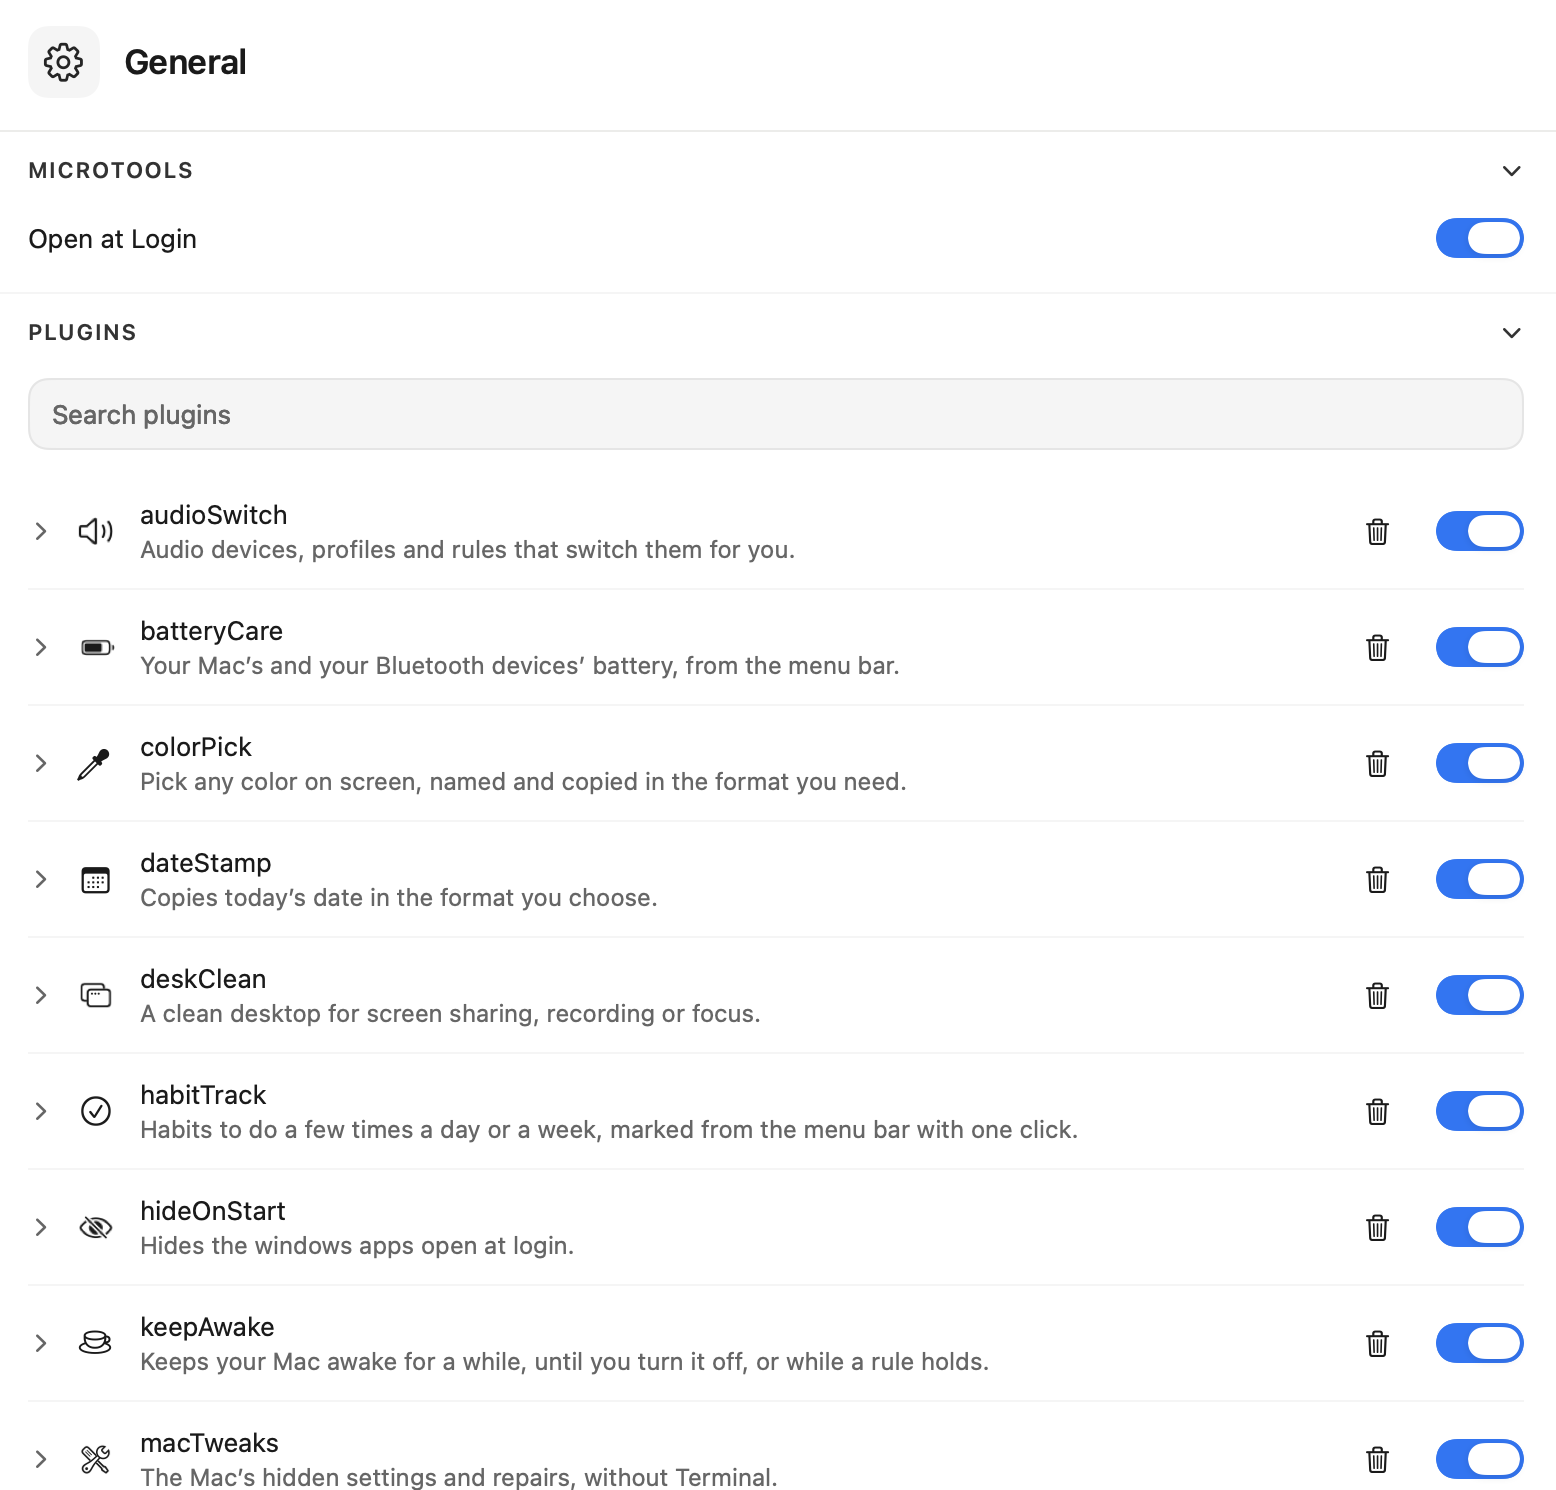
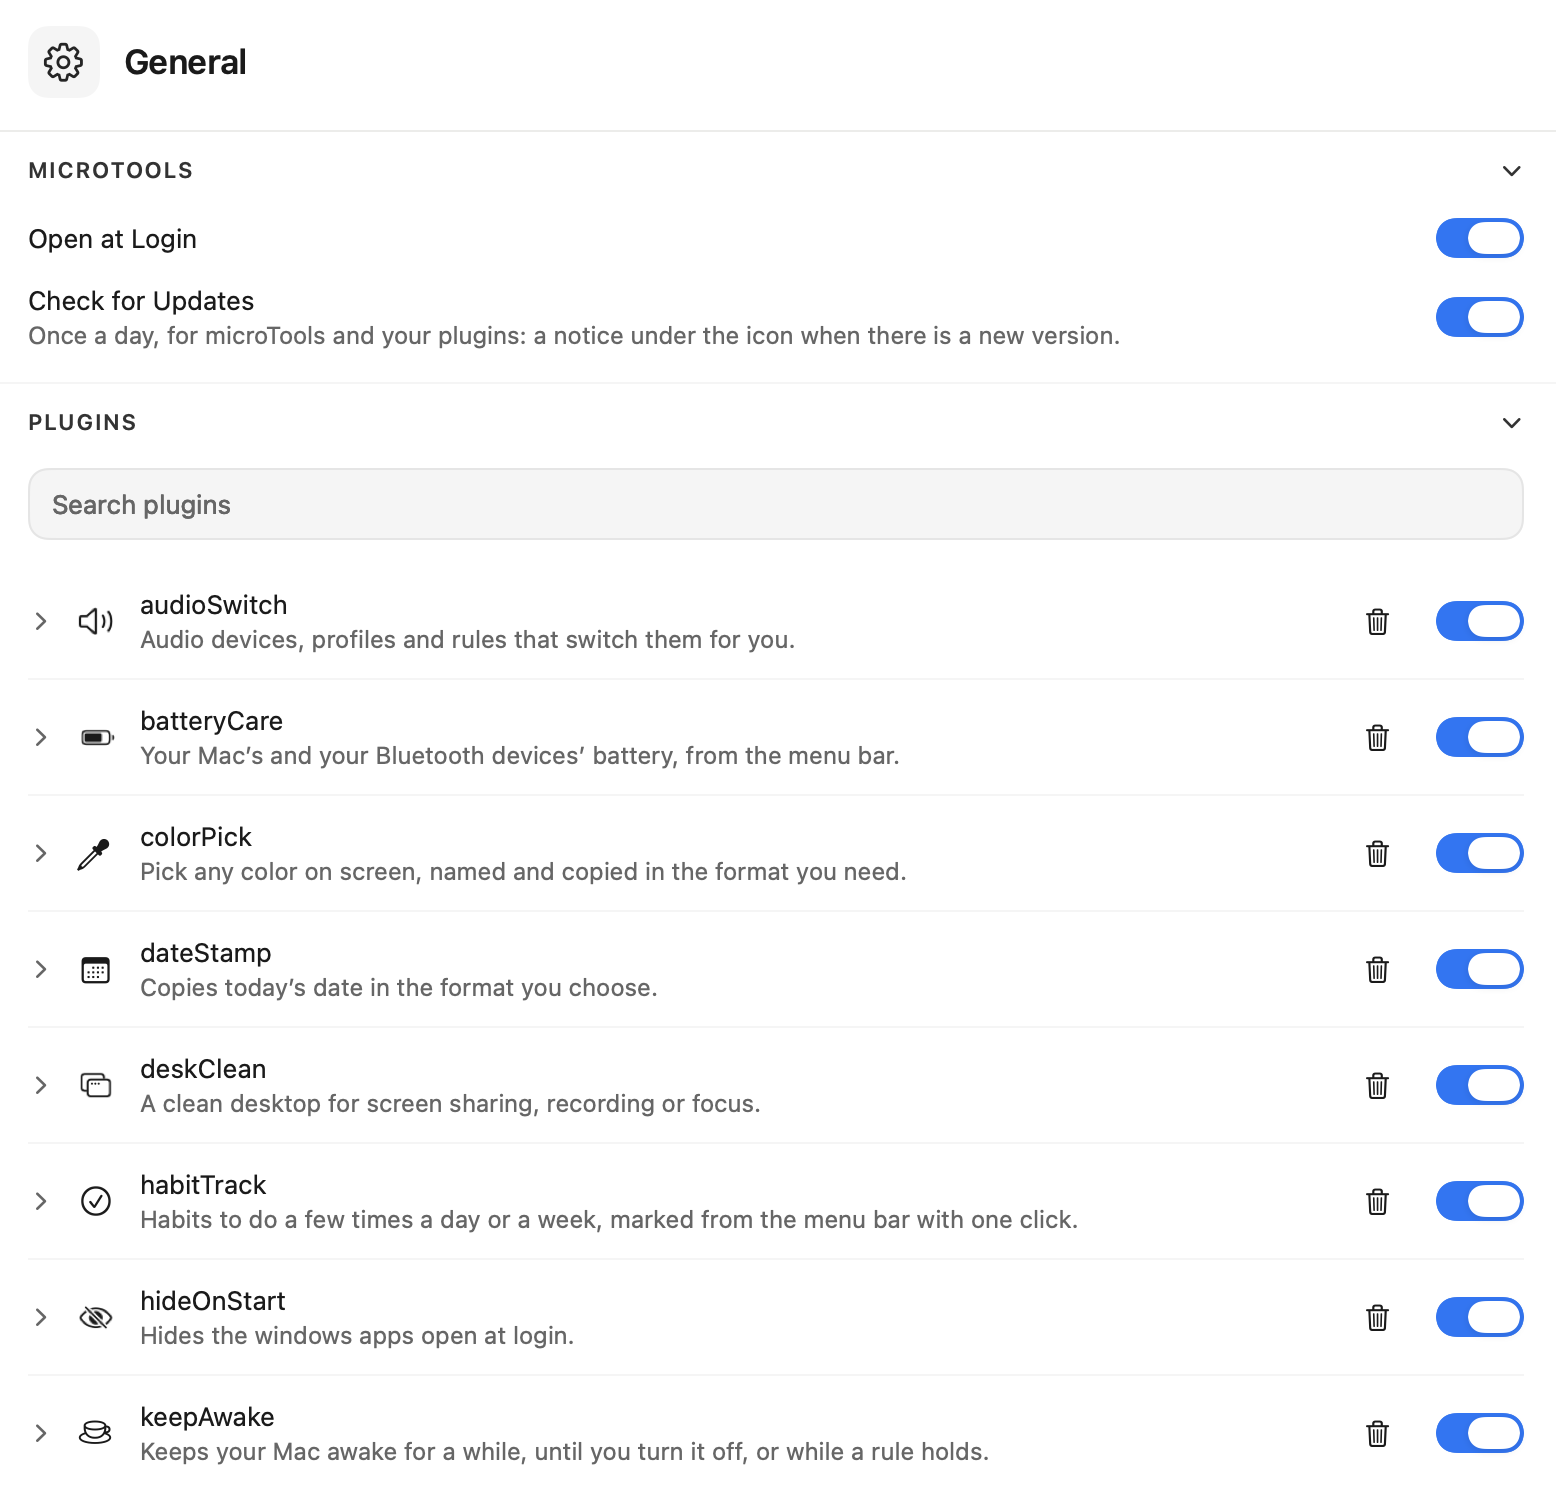
Landing and README: shotGrab replaces ocrGrab

diff --git a/index.html b/index.html
@@ -4,7 +4,7 @@
 <meta charset="utf-8">
 <meta name="viewport" content="width=device-width, initial-scale=1">
 <title>microTools — Small tools for your Mac</title>
-<meta name="description" content="One small menu bar app that hosts little Mac utilities as plugins: hideOnStart, rightClick, audioSwitch, mediaGrab, midiLink, ocrGrab, colorPick, keepAwake, deskClean, batteryCare, macTweaks, habitTrack — and the ones you write in JavaScript.">
+<meta name="description" content="One small menu bar app that hosts little Mac utilities as plugins: hideOnStart, rightClick, audioSwitch, mediaGrab, midiLink, shotGrab, colorPick, keepAwake, deskClean, batteryCare, macTweaks, habitTrack — and the ones you write in JavaScript.">
 <meta property="og:title" content="microTools — Small tools. One app.">
 <meta property="og:description" content="Little Mac utilities as plugins, in one menu bar app. Turn on only the ones you need.">
 <meta property="og:image" content="https://microbians.github.io/microtools/site/og.png">
@@ -179,7 +179,7 @@
     <symbol id="i-audioSwitch" viewBox="0 0 24 24" fill="none" stroke="currentColor" stroke-width="1.5" stroke-linecap="round" stroke-linejoin="round"><path d="M11 4.702a.705.705 0 0 0-1.203-.498L6.413 7.587A1.4 1.4 0 0 1 5.416 8H3a1 1 0 0 0-1 1v6a1 1 0 0 0 1 1h2.416a1.4 1.4 0 0 1 .997.413l3.383 3.384A.705.705 0 0 0 11 19.298z"/><path d="M16 9a5 5 0 0 1 0 6"/><path d="M19.364 18.364a9 9 0 0 0 0-12.728"/></symbol>
     <symbol id="i-mediaGrab" viewBox="0 0 24 24" fill="none" stroke="currentColor" stroke-width="1.5" stroke-linecap="round" stroke-linejoin="round"><circle cx="12" cy="12" r="10"/><path d="M12 8v8"/><path d="m8 12 4 4 4-4"/></symbol>
     <symbol id="i-midiLink" viewBox="0 0 24 24" fill="none" stroke="currentColor" stroke-width="1.5" stroke-linecap="round" stroke-linejoin="round"><rect x="2" y="5" width="20" height="14" rx="2"/><path d="M7 5v8M12 5v8M17 5v8M7 13v6M12 13v6M17 13v6"/></symbol>
-    <symbol id="i-ocrGrab" viewBox="0 0 24 24" fill="none" stroke="currentColor" stroke-width="1.5" stroke-linecap="round" stroke-linejoin="round"><path d="M3 7V5a2 2 0 0 1 2-2h2"/><path d="M17 3h2a2 2 0 0 1 2 2v2"/><path d="M21 17v2a2 2 0 0 1-2 2h-2"/><path d="M7 21H5a2 2 0 0 1-2-2v-2"/><path d="M7 8h8"/><path d="M7 12h10"/><path d="M7 16h6"/></symbol>
+    <symbol id="i-shotGrab" viewBox="0 0 24 24" fill="none" stroke="currentColor" stroke-width="1.5" stroke-linecap="round" stroke-linejoin="round"><path d="M3 7V5a2 2 0 0 1 2-2h2"/><path d="M17 3h2a2 2 0 0 1 2 2v2"/><path d="M21 17v2a2 2 0 0 1-2 2h-2"/><path d="M7 21H5a2 2 0 0 1-2-2v-2"/><circle cx="12" cy="12" r="1"/><path d="M18.944 12.33a1 1 0 0 0 0-.66 7.5 7.5 0 0 0-13.888 0 1 1 0 0 0 0 .66 7.5 7.5 0 0 0 13.888 0"/></symbol>
     <symbol id="i-colorPick" viewBox="0 0 24 24" fill="none" stroke="currentColor" stroke-width="1.5" stroke-linecap="round" stroke-linejoin="round"><path d="m12 9-8.414 8.414A2 2 0 0 0 3 18.828v1.344a2 2 0 0 1-.586 1.414A2 2 0 0 1 3.828 21h1.344a2 2 0 0 0 1.414-.586L15 12"/><path d="m18 9 .4.4a1 1 0 1 1-3 3l-3.8-3.8a1 1 0 1 1 3-3l.4.4 3.4-3.4a1 1 0 1 1 3 3z"/><path d="m2 22 .414-.414"/></symbol>
     <symbol id="i-keepAwake" viewBox="0 0 24 24" fill="none" stroke="currentColor" stroke-width="1.5" stroke-linecap="round" stroke-linejoin="round"><path d="M10 2v2"/><path d="M14 2v2"/><path d="M16 8a1 1 0 0 1 1 1v8a4 4 0 0 1-4 4H7a4 4 0 0 1-4-4V9a1 1 0 0 1 1-1h14a4 4 0 1 1 0 8h-1"/><path d="M6 2v2"/></symbol>
     <symbol id="i-deskClean" viewBox="0 0 24 24" fill="none" stroke="currentColor" stroke-width="1.5" stroke-linecap="round" stroke-linejoin="round"><rect x="2" y="3" width="20" height="14" rx="2"/><path d="M8 21h8"/><path d="M12 17v4"/></symbol>
@@ -194,7 +194,7 @@
   <div class="inner split">
     <div class="copy">
       <h1>Small tools.<br>One app.</h1>
-      <p class="lead soft">hideOnStart, rightClick, audioSwitch, mediaGrab, midiLink, ocrGrab, colorPick, keepAwake, deskClean, batteryCare, macTweaks and habitTrack live together in your menu bar. Turn on only the ones you need; new tools arrive as new plugins, not as one more app.</p>
+      <p class="lead soft">hideOnStart, rightClick, audioSwitch, mediaGrab, midiLink, shotGrab, colorPick, keepAwake, deskClean, batteryCare, macTweaks and habitTrack live together in your menu bar. Turn on only the ones you need; new tools arrive as new plugins, not as one more app.</p>
       <div class="buttons">
         <a class="button primary" href="https://microbians.gumroad.com/l/microtools">Get microTools <small>pay what you want</small></a>
         <a class="button secondary" href="#sdk">Write a plugin</a>
@@ -219,7 +219,7 @@
       <a class="plugin-card" href="#audioSwitch"><svg><use href="#i-audioSwitch"/></svg><h3>audioSwitch</h3><p>Audio devices, profiles and rules that switch them for you.</p></a>
       <a class="plugin-card" href="#mediaGrab"><svg><use href="#i-mediaGrab"/></svg><h3>mediaGrab</h3><p>Video, MP3 or images from the page in your browser.</p></a>
       <a class="plugin-card" href="#midiLink"><svg><use href="#i-midiLink"/></svg><h3>midiLink</h3><p>Bluetooth MIDI devices from the menu bar, and MIDI from one to another.</p></a>
-      <a class="plugin-card" href="#ocrGrab"><svg><use href="#i-ocrGrab"/></svg><h3>ocrGrab</h3><p>Copy the text of any part of the screen, and read QR codes.</p></a>
+      <a class="plugin-card" href="#shotGrab"><svg><use href="#i-shotGrab"/></svg><h3>shotGrab</h3><p>Text, QR codes and what an image shows, from any part of the screen — and screenshots named by what they show.</p></a>
       <a class="plugin-card" href="#colorPick"><svg><use href="#i-colorPick"/></svg><h3>colorPick</h3><p>Pick any color on screen, named and copied in the format you need.</p></a>
       <a class="plugin-card" href="#keepAwake"><svg><use href="#i-keepAwake"/></svg><h3>keepAwake</h3><p>Keeps your Mac awake for a while, until you turn it off, or while a rule holds.</p></a>
       <a class="plugin-card" href="#deskClean"><svg><use href="#i-deskClean"/></svg><h3>deskClean</h3><p>A clean desktop for screen sharing, recording or focus.</p></a>
@@ -284,7 +284,7 @@
       <div class="plugin-name"><svg><use href="#i-audioSwitch"/></svg>audioSwitch</div>
       <h2>Sound where<br>you want it.</h2>
       <dl class="features">
-        <div><dt class="soft">Devices</dt><dd>Rename them, give them an icon, set volumes, hide the ones you never use and give each a shortcut.</dd></div>
+        <div><dt class="soft">Devices</dt><dd>Rename them, give them an icon, set volumes and mute from the menu, hide the ones you never use and give each a shortcut.</dd></div>
         <div><dt class="soft">Profiles</dt><dd>Output, input, levels and microphone mute in one click.</dd></div>
         <div><dt class="soft">Rules</dt><dd>Switch by themselves when an app, a web page, the camera or a device turns up — and switch back when it ends.</dd></div>
       </dl>
@@ -327,19 +327,20 @@
   </div>
 </section>
 
-<!-- ocrGrab -->
-<section class="ground paper" id="ocrGrab">
+<!-- shotGrab -->
+<section class="ground paper" id="shotGrab">
   <div class="inner split flip">
     <div class="copy">
-      <div class="plugin-name"><svg><use href="#i-ocrGrab"/></svg>ocrGrab</div>
-      <h2>Copy the text<br>you can’t select.</h2>
+      <div class="plugin-name"><svg><use href="#i-shotGrab"/></svg>shotGrab</div>
+      <h2>Read anything<br>on your screen.</h2>
       <dl class="features">
-        <div><dt class="soft">Any part of the screen</dt><dd>Drag over images, videos, PDFs or apps that won’t let you select: the text is copied, read on your Mac.</dd></div>
-        <div><dt class="soft">QR codes and barcodes</dt><dd>Copy what they hold; links in them can open by themselves.</dd></div>
-        <div><dt class="soft">Your way</dt><dd>Keep the line breaks or join them into paragraphs, choose the languages, copy recent captures again from the menu.</dd></div>
+        <div><dt class="soft">Text and QR codes</dt><dd>Drag over images, videos, PDFs or apps that won’t let you select: the text is copied, read on your Mac. Codes copy what they hold.</dd></div>
+        <div><dt class="soft">Identify Image</dt><dd>Apple Intelligence tells you in a few words what the area shows, and copies it.</dd></div>
+        <div><dt class="soft">Search Image on the Web</dt><dd>The area you select, searched with Google Lens, Bing or Yandex.</dd></div>
+        <div><dt class="soft">Screenshots with names</dt><dd>Each new one is named by what it shows instead of “Screenshot” and the date. Keep the date if you like; undo from the menu.</dd></div>
       </dl>
     </div>
-    <div class="window" data-shot="ocrGrab-light" data-active="ocrGrab"></div>
+    <div class="window" data-shot="shotGrab-light" data-active="shotGrab"></div>
   </div>
 </section>
 
@@ -519,7 +520,7 @@ docs/for-ai.md.</pre>
 
 <script>
   // The Settings window around each capture: the same sidebar the app draws.
-  const plugins = ['hideOnStart', 'rightClick', 'audioSwitch', 'mediaGrab', 'midiLink', 'ocrGrab', 'colorPick',
+  const plugins = ['hideOnStart', 'rightClick', 'audioSwitch', 'mediaGrab', 'midiLink', 'shotGrab', 'colorPick',
                    'keepAwake', 'deskClean', 'batteryCare', 'macTweaks', 'habitTrack']
   const item = (name, icon, active) =>
     `<div class="item${name === active ? ' on' : ''}"><svg><use href="#${icon}"/></svg>${name}</div>`

diff --git a/README.md b/README.md
@@ -59,7 +59,7 @@ mediaGrab.microplugin/
 | audioSwitch | Audio devices, profiles and rules that switch them for you. |
 | mediaGrab | Video, MP3 or images from the page in your browser. |
 | midiLink | Bluetooth MIDI devices from the menu bar, and MIDI from one to another. |
-| ocrGrab | Copy the text of any part of the screen, and read QR codes. |
+| shotGrab | Text, QR codes and what an image shows, from any part of the screen — and screenshots named by what they show. |
 | colorPick | Pick any color on screen, named and copied in the format you need. |
 | keepAwake | Keeps your Mac awake for a while, until you turn it off, or while a rule holds. |
 | deskClean | A clean desktop for screen sharing, recording or focus. |
